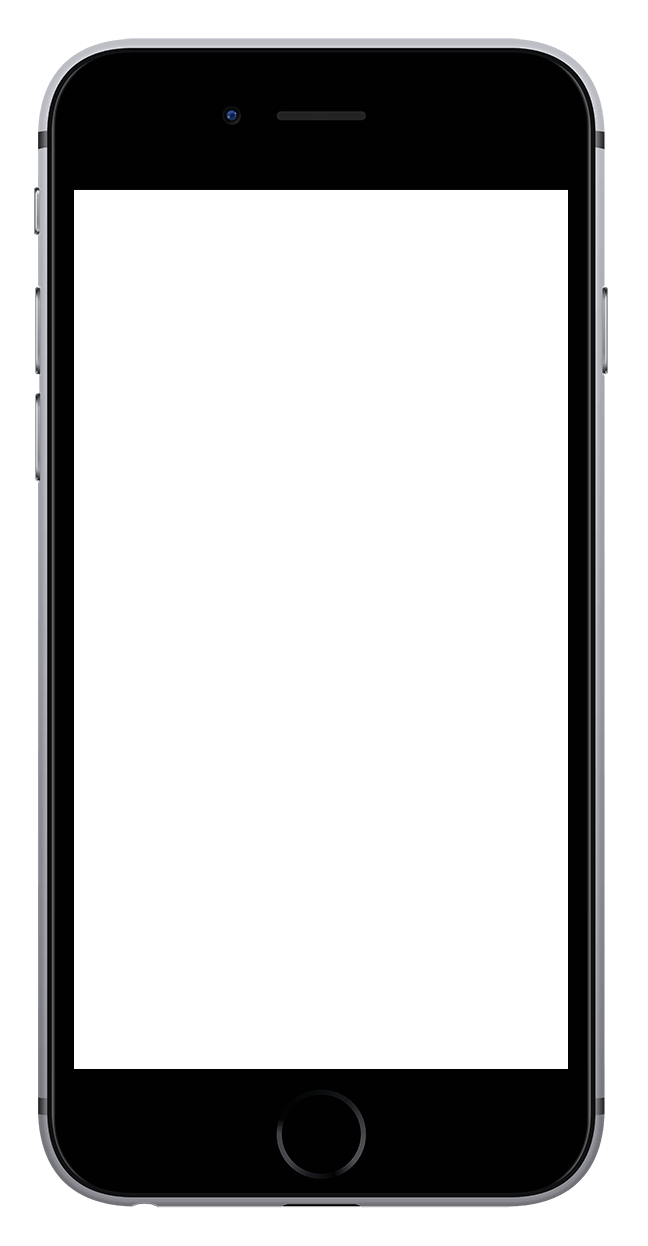
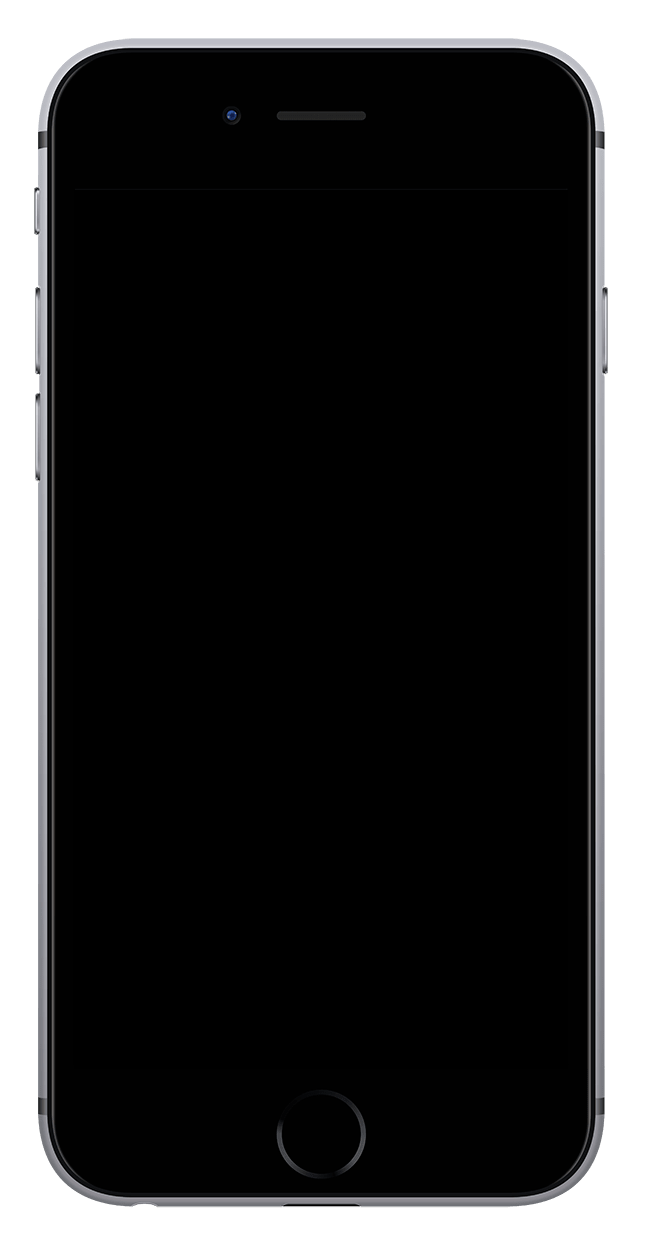
Replace stock iPhone and macbook photos

diff --git a/src/components/Projects/Projects.js b/src/components/Projects/Projects.js
@@ -91,7 +91,7 @@ export default class Projects extends Component {
 					<div className="device2">
 						<img
 							className={slidesPosition <= 1 ? 'blank-iphone mobile-slide' : 'blank-iphone'}
-							src="https://i.imgur.com/GD12kMS.png"
+							src="https://i.imgur.com/nsTenwY.png"
 							alt="iPhone"
 						/>
 						<div
@@ -184,11 +184,10 @@ export default class Projects extends Component {
 					}}>
 					<div className="device">
 						{slidesPosition <= 1 ? (
-							<img className="iphone-image" src="https://i.imgur.com/GD12kMS.png" alt="iPhone" />
+							<img className="iphone-image" src="https://i.imgur.com/nsTenwY.png" alt="iPhone" />
 						) : (
 							<div className="laptop-device">
-								<img className="laptop-image" src="https://i.imgur.com/fdG3vks.png" alt="Laptop" />
-								<img className="default-laptop-bg-image" src="https://i.imgur.com/F7PbQx1.jpg" alt="Laptop" />
+								<img className="laptop-image" src="https://i.imgur.com/mYV4YN6.png" alt="Laptop" />
 							</div>
 						)}
 						{slidesPosition <= 1 ? this.getIphoneImg() : this.getLapTopImg()}

diff --git a/src/components/Contact/Contact.scss b/src/components/Contact/Contact.scss
@@ -64,7 +64,7 @@
 			margin: auto;
 			padding: 20px;
 			border: 2px solid $contact-text;
-			border-radius: 20px;
+			border-radius: 10px;
 			background-color: $contact-form;
 			z-index: 999;
 			height: 335px;
@@ -78,6 +78,7 @@
 				height: 2.5rem;
 				letter-spacing: 0.5px;
 				margin-bottom: 20px;
+				border-radius: 5px;
 			}
 
 			textarea {
@@ -85,6 +86,7 @@
 				margin-bottom: 25px;
 				background-color: $main-text;
 				resize: none;
+				border-radius: 5px;
 			}
 
 			input.submit-btn {

diff --git a/src/components/Projects/Projects.scss b/src/components/Projects/Projects.scss
@@ -123,12 +123,6 @@
 			height: 600px;
 		}
 
-		.default-laptop-bg-image {
-			@include laptop-images;
-			height: 76%;
-			top: 6.1%;
-		}
-
 		.laptop-bg-image {
 			@include laptop-images;
 			height: 73%;
@@ -390,6 +384,7 @@
 			.iphone-svg-image {
 				left: 7.6%;
 				top: -118.0%;
+				background-size: 120px 222px;
 			}
 
 			.blank-iphone {
